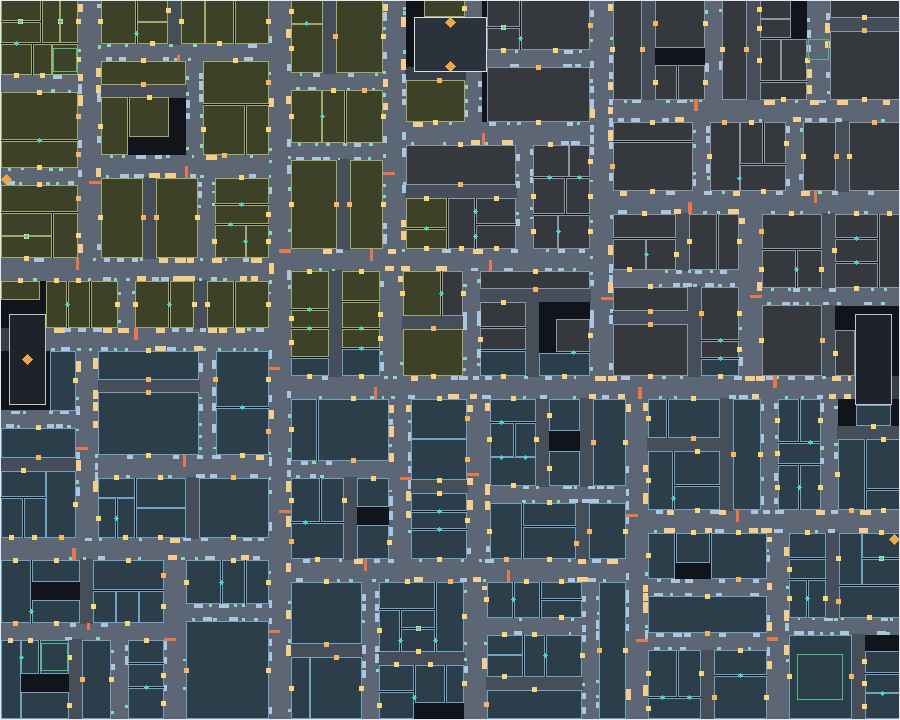
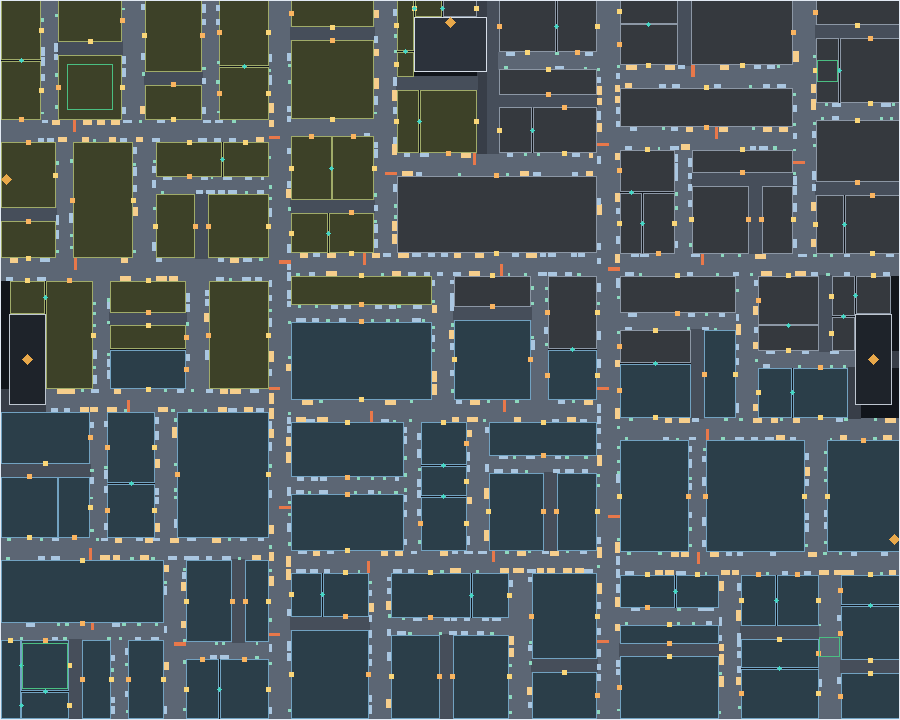
调试: 几何俯视图藏吊顶 + 墙用深色材质；重出平面图/截图

diff --git a/game/Assets/_Project/Scripts/Editor/M1FloorScene.cs b/game/Assets/_Project/Scripts/Editor/M1FloorScene.cs
@@ -260,6 +260,8 @@ namespace EscapeFromWork.EditorTools
         {
             EnsureFolders();
             FloorMaterials flat = BuildDebugMaterial();
+            flat.Wall = BuildDebugMaterial("DebugWall", new Color(0.16f, 0.18f, 0.22f));
+            flat.SightBreak = flat.Wall;
             FloorSpec spec = ConfigureSpec(FloorSpec.Default(DefaultSeed));
             FloorPlan plan = FloorGenerator.Generate(spec);
 
@@ -268,6 +270,13 @@ namespace EscapeFromWork.EditorTools
             RenderSettings.ambientLight = new Color(0.92f, 0.92f, 0.92f);
 
             GameObject root = FloorGeometry.Build(plan, flat, null);
+            // 顶视调试要把吊顶藏掉，否则从上往下只能看到吊顶
+            MeshRenderer[] hidden = root.GetComponentsInChildren<MeshRenderer>();
+            for (int i = 0; i < hidden.Length; i++)
+            {
+                string n = hidden[i].gameObject.name;
+                if (n.StartsWith("Ceiling") || n.Contains("LightPanel")) hidden[i].enabled = false;
+            }
             int verts = 0;
             MeshFilter[] filters = root.GetComponentsInChildren<MeshFilter>();
             for (int i = 0; i < filters.Length; i++)
@@ -299,7 +308,7 @@ namespace EscapeFromWork.EditorTools
 
             RectF core = plan.Core;
             camera.orthographic = true;
-            camera.orthographicSize = 45f;
+            camera.orthographicSize = plan.Bounds.H * 0.5f + 8f;
             camera.transform.position = new Vector3(core.Center.x, 90f, core.Y);
             camera.transform.rotation = Quaternion.Euler(90f, 0f, 0f);
             camera.fieldOfView = 60f;
@@ -307,9 +316,9 @@ namespace EscapeFromWork.EditorTools
             Debug.Log("[M1] geometry debug shots written");
         }
 
-        static FloorMaterials BuildDebugMaterial()
+        static Material BuildDebugMaterial(string assetName, Color color)
         {
-            string path = MatDir + "/DebugGray.mat";
+            string path = MatDir + "/" + assetName + ".mat";
             Material m = AssetDatabase.LoadAssetAtPath<Material>(path);
             if (m == null)
             {
@@ -318,10 +327,15 @@ namespace EscapeFromWork.EditorTools
                 m = new Material(shader);
                 AssetDatabase.CreateAsset(m, path);
             }
-            Color gray = new Color(0.72f, 0.72f, 0.74f);
-            if (m.HasProperty("_BaseColor")) m.SetColor("_BaseColor", gray);
-            if (m.HasProperty("_Color")) m.SetColor("_Color", gray);
+            if (m.HasProperty("_BaseColor")) m.SetColor("_BaseColor", color);
+            if (m.HasProperty("_Color")) m.SetColor("_Color", color);
             EditorUtility.SetDirty(m);
+            return m;
+        }
+
+        static FloorMaterials BuildDebugMaterial()
+        {
+            Material m = BuildDebugMaterial("DebugGray", new Color(0.72f, 0.72f, 0.74f));
 
             FloorMaterials mats = new FloorMaterials();
             mats.Wall = m; mats.Floor = m; mats.Ceiling = m; mats.Column = m; mats.Core = m;
